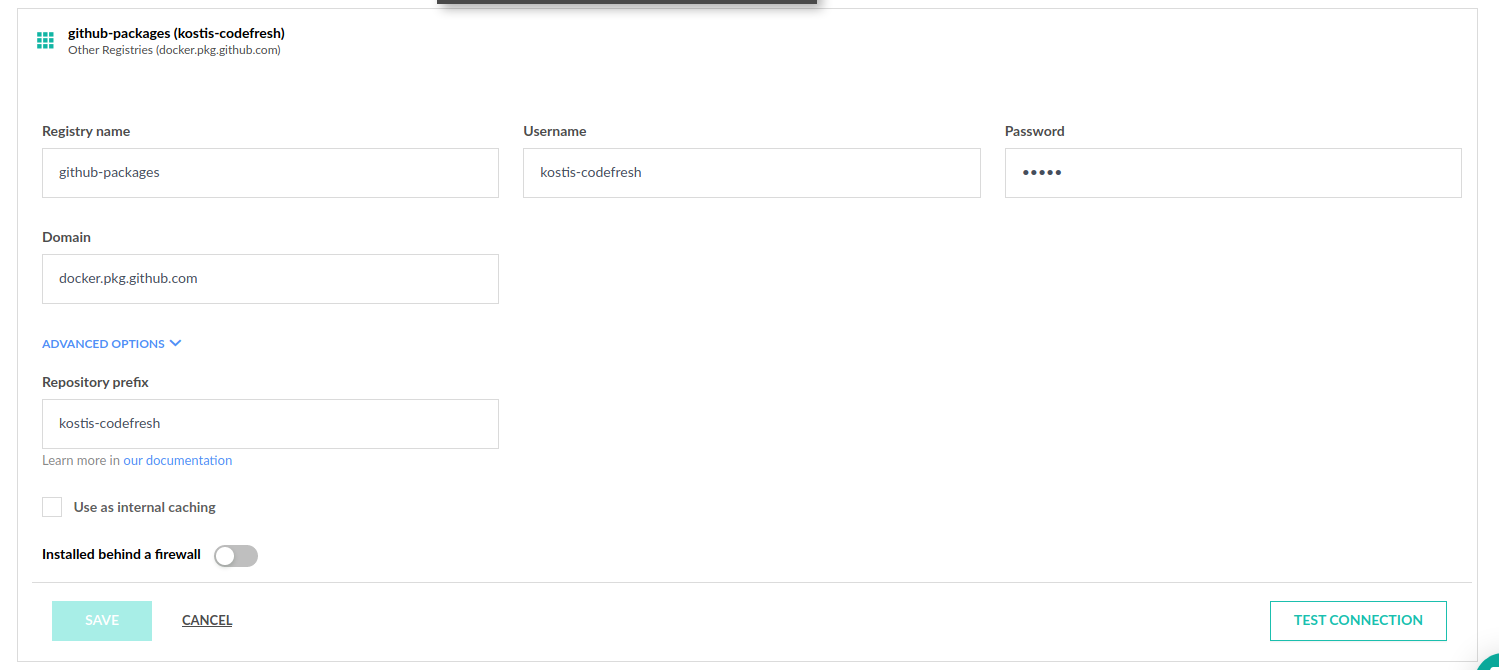
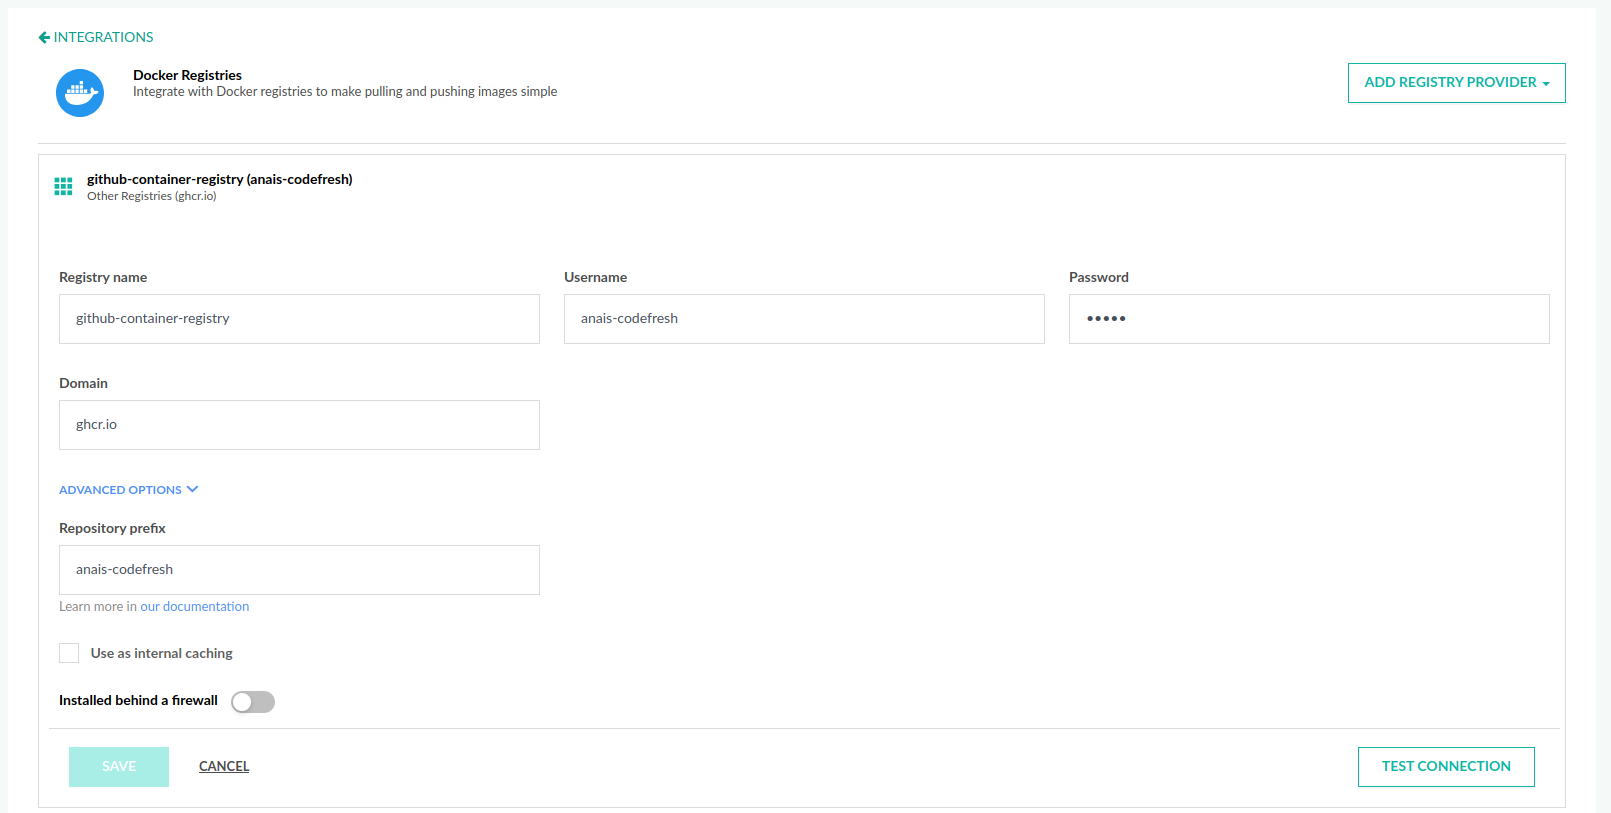
Changing GitHub Package Registry to GitHub Container Registry

diff --git a/_docs/integrations/docker-registries/github-container-registry.md b/_docs/integrations/docker-registries/github-container-registry.md
@@ -1,0 +1,193 @@
+---
+title: "GitHub Container Registry"
+description: "Learn how to push Docker images to your GitHub Container Registry"
+group: integrations
+redirect_from:
+  - /docs/integrations/docker-registries/github-packages/
+toc: true
+---
+
+[GitHub Packages](https://github.com/features/packages) is an artifact storage solution that among other formats, can also be used as a Docker registry.
+
+However, Github Packages is being replaced by GitHub Container Registry. While the process is quite similar, our documentation will focus on using the GitHub Container Registry as a Docker registry in Codefresh and push images from your Codefresh pipeline to the Github Container Registry. 
+
+## Overview: GitHub Container Registry
+
+The GitHub Container Registry allows you to host and manage your Docker container images in your personal or organisation account on GitHub. One of the benefits is that permissions can be defined for the Docker image independent from any repository. Thus, your repository could be private and your Docker image public. More [information on permissions](https://docs.github.com/en/free-pro-team@latest/packages/managing-container-images-with-github-container-registry/configuring-access-control-and-visibility-for-container-images) are on the GitHub documentation.
+
+In comparison, the previously used Docker Package Registry would require you to set a repository by default. The command used for pushing your Docker image
+
+```
+docker push docker.pkg.github.com/github-account/repository/package-name:version
+```
+
+automatically connects your package with the repository.
+
+The next sections will look at
+* How to use The GitHub Container Registry
+* Connecting the Registry to your Codefresh Pipeline
+
+## Using The GitHub Container Registry
+
+The process is quite similar to using GitHub Packages as your Docker Registry.
+
+You will need the following
+* A GitHub account (your GitHub username)
+* A personal access token
+* The Docker image that you want to push (or use in your Codefresh Pipeline).
+
+### Creating a personal token
+
+The username to the registry is the same as your GitHub username. For the password you need to [create a GitHub personal token](https://docs.github.com/en/github/authenticating-to-github/creating-a-personal-access-token).
+
+When creating the personal token, you need to select at least the following scopes:
+
+* `write:packages` 
+* `read:packages`
+* `delete:packages` 
+* `repo` (if your repository is private; do not select if it is public)
+
+Once you create the token, note it down.
+
+You can make sure that your token is valid by using it as password on your local workstation with the docker command:
+
+```
+docker login ghcr.io --username github-account
+[Paste your GitHub token on this prompt]
+```
+
+**Important** Make sure that the URL is correct, otherwise, you will receive login errors later on. The github-account is your GitHub username.
+
+### Tag and push your Docker image
+
+Use the following command to tag your Docker image
+
+```
+docker tag image-id ghcr.io/github-account/image-name:image-version
+```
+
+For example
+
+```
+docker tag 5e369524eecb ghcr.io/anais-codefresh/react-example:1.0
+```
+
+You can find your image-id by running:
+
+```
+docker images
+```
+
+Once pushed, you will see the Docker image in the packages section of your repository.
+If you want, you can connect the Docker image to a repository [using the GitHub interface](https://docs.github.com/en/free-pro-team@latest/packages/managing-container-images-with-github-container-registry/connecting-a-repository-to-a-container-image) or by adding a label to your Dockerfile.
+
+```
+LABEL org.opencontainers.image.source https://github.com/OWNER/REPO
+```
+
+{% include image.html 
+	lightbox="true" 
+	file="/images/integrations/docker-registries/github/manual-docker-push.png" 
+	url="/images/integrations/docker-registries/github/manual-docker-push.png" 
+	alt="Pushing a Docker image manually to GitHub packages"
+	caption="Pushing a Docker image manually to GitHub packages" 
+	max-width="100%" 
+%}
+
+Now that you have verified your token, we can connect the registry to Codefresh.
+
+## Connecting the GitHub registry to Codefresh
+
+Go the [Registry integration screen]({{site.baseurl}}/docs/integrations/docker-registries/) at [https://g.codefresh.io/account-admin/account-conf/integration/registryNew](https://g.codefresh.io/account-admin/account-conf/integration/registryNew) and add a new Registry by choosing [other Registries]({{site.baseurl}}/docs/integrations/docker-registries/other-registries/).
+
+
+{% include image.html 
+	lightbox="true" 
+	file="/images/integrations/docker-registries/github/github-registry-codefresh.png" 
+	url="/images/integrations/docker-registries/github/github-registry-codefresh.png" 
+	alt="Entering GitHub Registry details"
+	caption="Entering GitHub Registry details" 
+	max-width="100%" 
+%}
+
+Enter your details:
+
+* Registry Name - a unique name for this configuration (arbitrary name)
+* Username - your GitHub username
+* Password - your GitHub personal token
+* Domain - `ghcr.io`
+* [Repository Prefix]({{site.baseurl}}/docs/integrations/docker-registries/#using-an-optional-repository-prefix) - your GitHub username (after expanding the *Advanced Options* sections)
+
+Click the *Test Connection* button and apply your changes if you get a success message.
+
+## Pushing Docker image to registry
+
+With the registry integration in place, you can now push a Docker image in any Codefresh pipeline, simply by mentioning the registry by name (`github-container-registry` in my example).
+
+{% include image.html 
+	lightbox="true" 
+	file="/images/integrations/docker-registries/github/github-registry-pipeline.png" 
+	url="/images/integrations/docker-registries/github/github-registry-pipeline.png" 
+	alt="Codefresh pipeline for GitHub packages"
+	caption="Codefresh pipeline for GitHub packages"
+	max-width="100%" 
+%}
+
+Here is the definition of the Codefresh pipeline.
+
+ `codefresh.yml`
+{% highlight yaml %}
+{% raw %}
+version: '1.0'
+stages:
+  - "clone"
+  - "build"
+
+steps:
+  clone:
+    title: "Cloning repository"
+    type: "git-clone"
+    repo: "anais-codefresh/react-article-display"
+    revision: "${{CF_BRANCH}}"
+    git: "github"
+    stage: "clone"
+
+  build:
+    title: "Building Docker image"
+    type: "build"
+    image_name: "anais-codefresh/react-article-display"
+    working_directory: "${{clone}}"
+    tags: 
+      - "${{CF_BRANCH_TAG_NORMALIZED}}"
+      - "2.0.0"
+    dockerfile: "Dockerfile"
+    stage: "build"
+    registry: "github-container-registry"
+{% endraw %}
+{% endhighlight %}
+
+Notice:
+
+* The `registry: github-container-registry` property in the `build` step, which is the name of the registry that you set-up in the previous step
+* The fact that we push multiple Docker tags in a single step; you can define all tags in the `build` step
+* The prefix `anais-codefresh/react-article-display` so that the final image is compliant with GitHub naming.
+
+After the pipeline has finished the Docker tags can also be seen in the GitHub packages section of the repository.
+
+{% include image.html 
+	lightbox="true" 
+	file="/images/integrations/docker-registries/github/multiple-docker-tags.png" 
+	url="/images/integrations/docker-registries/github/multiple-docker-tags.png" 
+	alt="Pushing different Docker tags"
+	caption="Pushing different Docker tags"
+	max-width="100%" 
+%}
+
+You can now treat this registry like any other Codefresh registry.
+
+
+## What to read next
+
+* [Working with Docker Registries]({{site.baseurl}}/docs/ci-cd-guides/working-with-docker-registries/)
+* [Push step]({{site.baseurl}}/docs/codefresh-yaml/steps/push/)
+* [Building and pushing an image]({{site.baseurl}}/docs/yaml-examples/examples/build-and-push-an-image/)

diff --git a/_docs/whats-new/whats-new.md b/_docs/whats-new/whats-new.md
@@ -29,7 +29,7 @@ Recent Codefresh updates:
 - Creating Docker images guide - [documentation]({{site.baseurl}}/docs/ci-cd-guides/building-docker-images/)
 - Pull requests guide - [documentation]({{site.baseurl}}/docs/ci-cd-guides/pull-request-branches/)
 - Microservice guide - [documentation]({{site.baseurl}}/docs/ci-cd-guides/microservices/)
-- Using GitHub packages as Docker registry - [documentation]({{site.baseurl}}/docs/integrations/docker-registries/github-packages/)
+- Using GitHub Container Registry as Docker registry - [documentation]({{site.baseurl}}/docs/integrations/docker-registries/github-container-registry/)
 - Check if a variable exists - [documentation]({{site.baseurl}}/docs/codefresh-yaml/conditional-execution-of-steps/#execute-steps-according-to-the-presence-of-a-variable)
 
 ### June 2020

diff --git a/_docs/integrations/docker-registries.md b/_docs/integrations/docker-registries.md
@@ -15,7 +15,7 @@ Codefresh enables you to integrate with several Docker container registries, inc
   * [Amazon EC2 Container Registry](amazon-ec2-container-registry)
   * [Bintray.io/Artifactory](bintray-io)
   * [Quay.io](quay-io)
-  * [Github packages](github-packages)
+  * [Github Container Registry](github-container-registry)
 
 
 For a different registry choose to configure using the [Other](other-registries) option.
